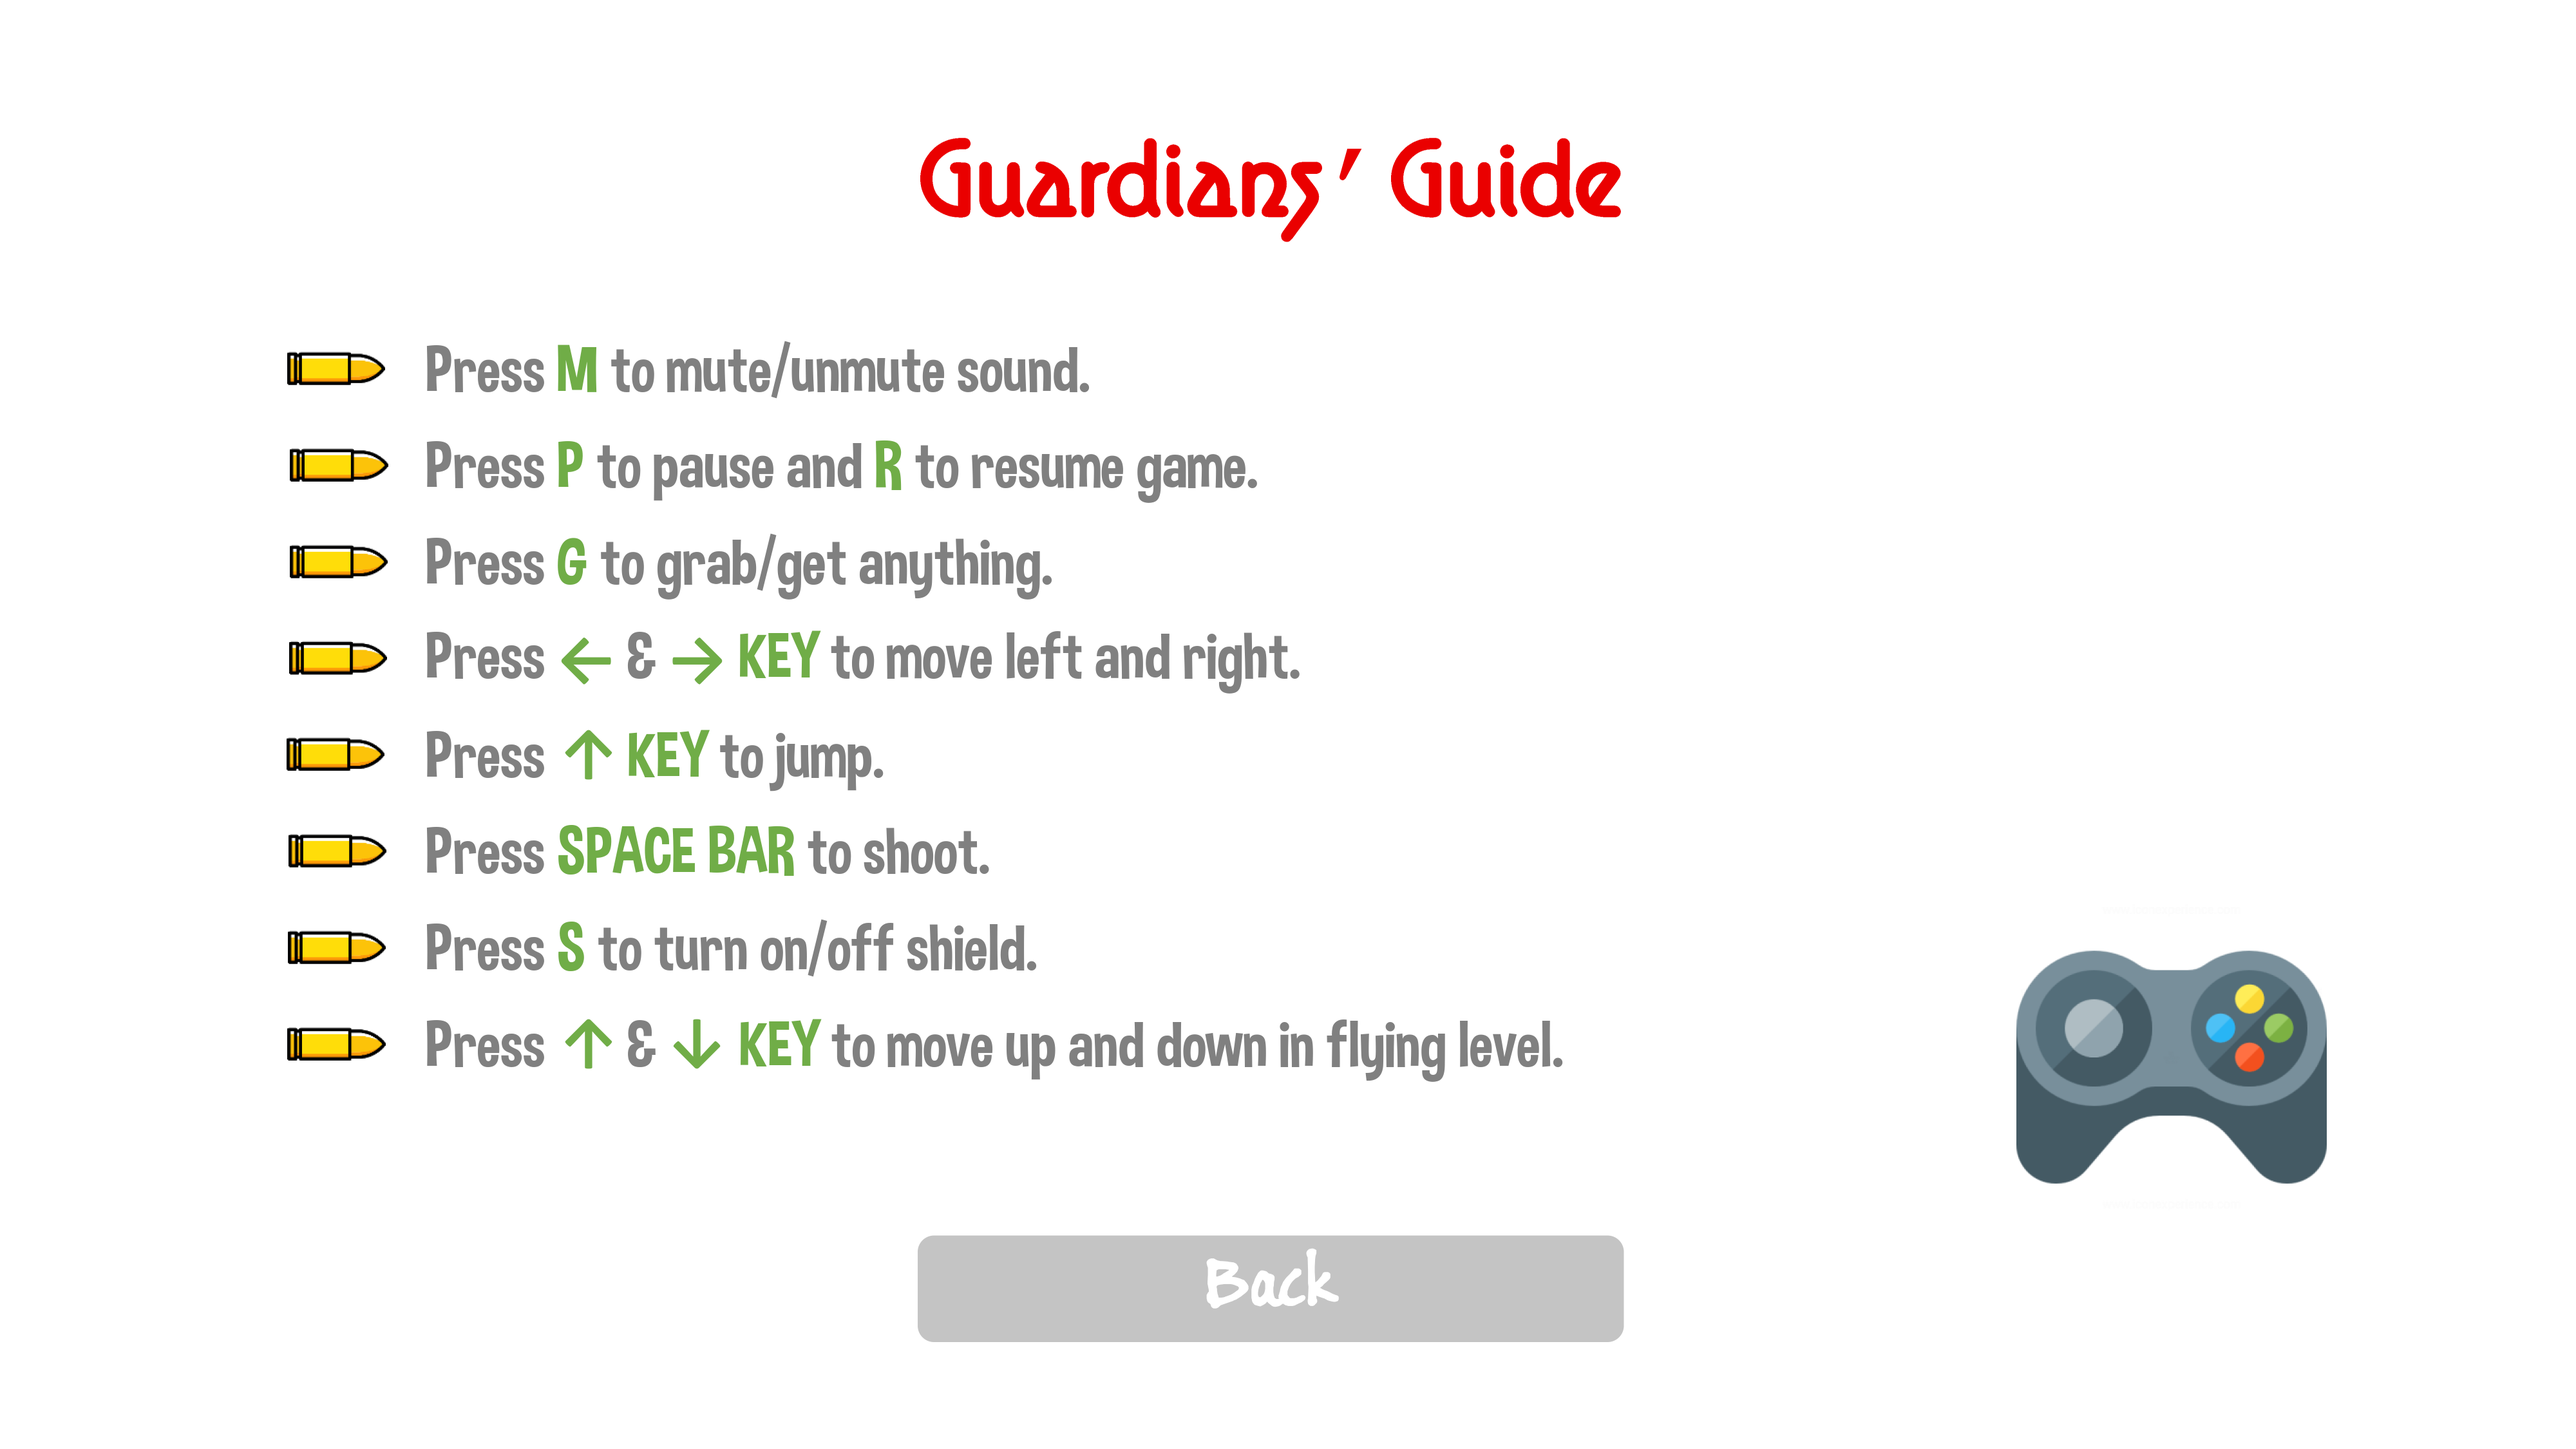
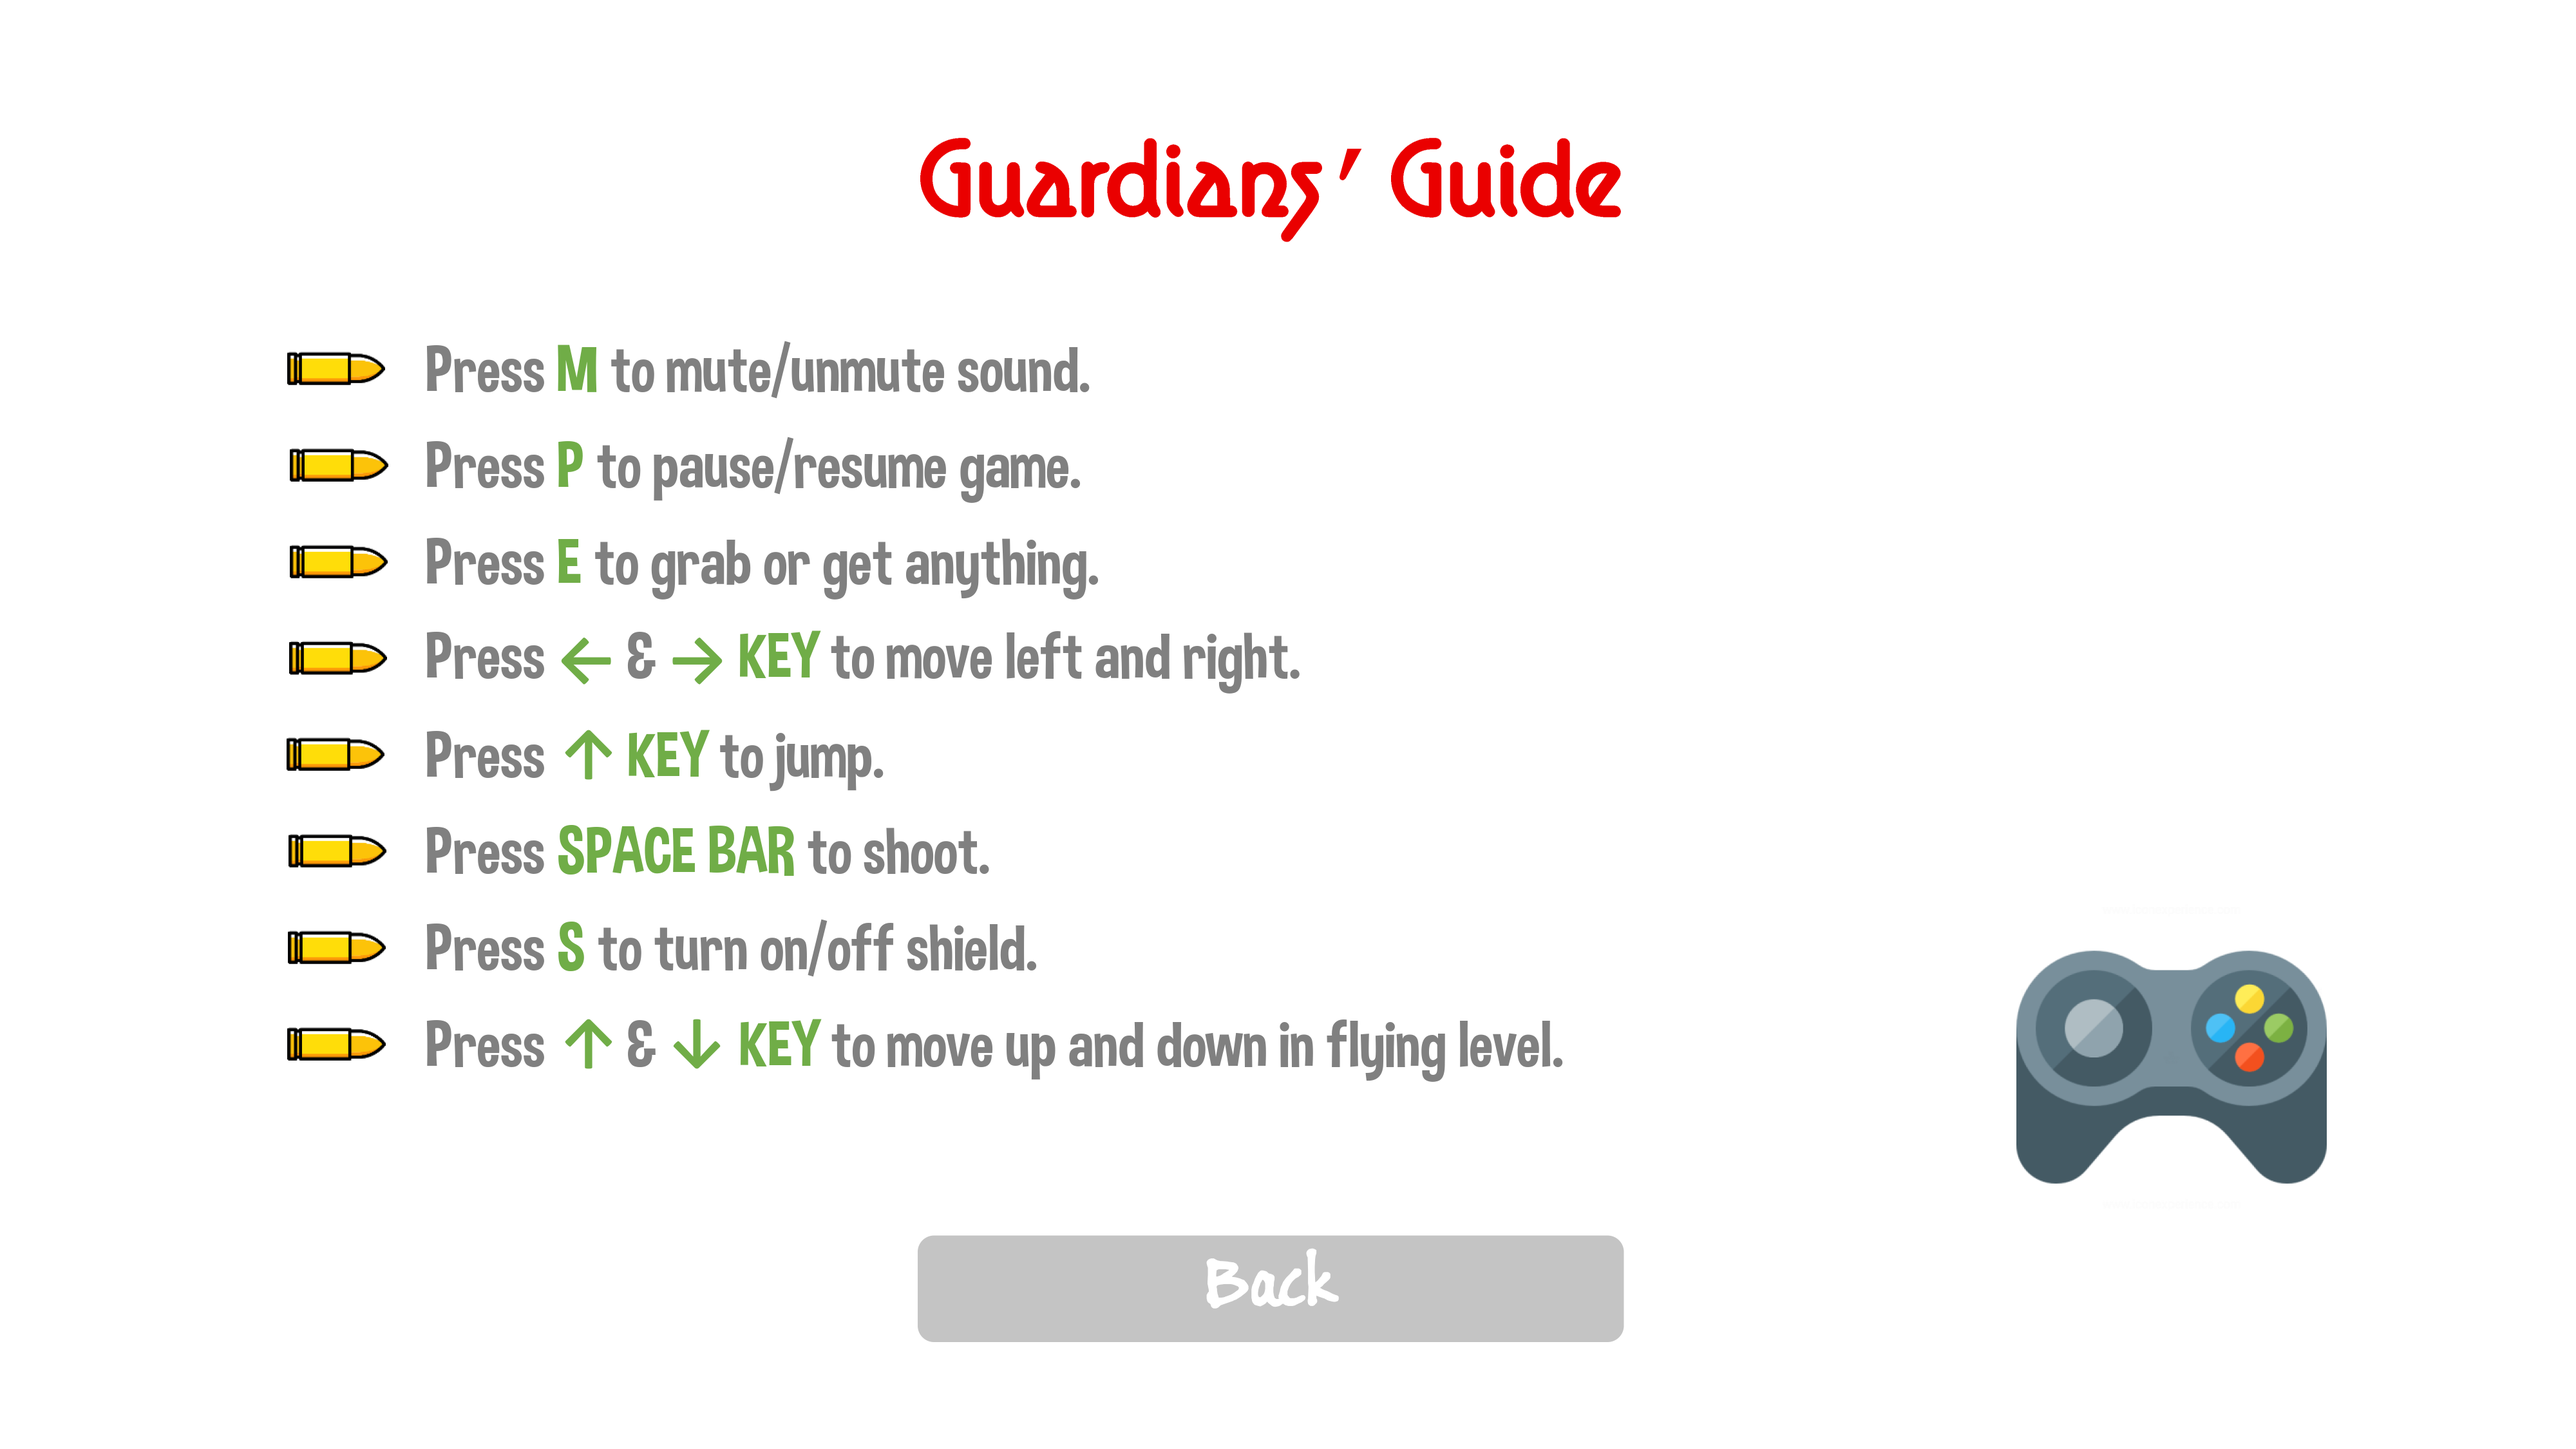
Bug fixes.

Changed region(s): [[0.2812, 0.3111, 0.5, 0.3422], [0.2188, 0.3733, 0.4375, 0.4044]]

diff --git a/TreasureGuardian/TreasureGuardian.cpp b/TreasureGuardian/TreasureGuardian.cpp
@@ -194,6 +194,35 @@ void iMouse(int button, int state, int mx, int my)
 		{
 			activateTextBox(mx, my); //This will activate the text box to enter high scorer's name.
 		}
+
+		if (game_over_index == 0 || game_over_index == 1 || game_over_index == 2) //If high score is achieved.
+		{
+			if (mx >= 547 && mx <= 968 && my >= 60 && my <= 116)
+			{
+				menu_option = 0; //To go to home.
+				level = 0;
+				intro_level = 0;
+				show_map = 0;
+				show_gift = 0;
+
+				ground_player.score = 0;
+				ground_player.health = 100;
+				player_distance = 0;
+
+				intro_player.x = 160;
+				intro_player.y = 30;
+
+				ground_player.x = 160;
+
+				flying_player.x = 160;
+				flying_player.y = 520;
+
+				game_over = false;
+				player_rank = 0;
+				game_over_index = 0;
+				memset(high_score.name, NULL, sizeof(high_score.name)); //Clearing the name.
+			}
+		}
 	}
 
 	if (button == GLUT_RIGHT_BUTTON && state == GLUT_DOWN)
@@ -231,7 +260,7 @@ void iKeyboard(unsigned char key)
 		fire = true;
 	}
 
-	if (key == 'g' || key == 'G')
+	if (key == 'e' || key == 'E')
 	{
 		if (intro_level == 1)
 		{
@@ -344,6 +373,32 @@ void iKeyboard(unsigned char key)
 
 		flying_player.x = 160;
 		flying_player.y = 520;
+	}
+
+	if (key == 'p' || key == 'P')
+	{
+		if (!pause)
+		{
+			pause = true;
+
+			iPauseTimer(timer_ten_mili);
+			iPauseTimer(timer_twenty_mili);
+			iPauseTimer(timer_forty_mili);
+			iPauseTimer(timer_hundred_mili);
+			iPauseTimer(timer_one_sec);
+			iPauseTimer(timer_four_sec);
+		}
+		else
+		{
+			pause = false;
+
+			iResumeTimer(timer_ten_mili);
+			iResumeTimer(timer_twenty_mili);
+			iResumeTimer(timer_forty_mili);
+			iResumeTimer(timer_hundred_mili);
+			iResumeTimer(timer_one_sec);
+			iResumeTimer(timer_four_sec);
+		}
 	}
 }
 
@@ -527,22 +582,23 @@ void iSpecialKeyboard(unsigned char key)
 		intro_level = 0;
 		show_map = 0;
 		show_gift = 0;
+
 		ground_player.score = 0;
 		ground_player.health = 100;
 		player_distance = 0;
 
 		intro_player.x = 160;
 		intro_player.y = 30;
+
 		ground_player.x = 160;
+
 		flying_player.x = 160;
 		flying_player.y = 520;
 
-		if (game_over) //This block is being used temporarily.
-		{
-			game_over = false;
-			ground_player.health = 100;
-			ground_player.score = 0;
-		}
+		game_over = false;
+		player_rank = 0;
+		game_over_index = 0;
+		memset(high_score.name, NULL, sizeof(high_score.name)); //Clearing the name.
 	}
 
 	if (key == GLUT_KEY_END)

diff --git a/TreasureGuardian/Score.h b/TreasureGuardian/Score.h
@@ -8,7 +8,7 @@ using namespace std;
 
 struct HighScore
 {
-	char name[20];
+	char name[35];
 	int score;
 
 	HighScore()
@@ -46,8 +46,8 @@ void showHighScores()
 			sprintf(score_string, "%d", high_score_temp.score);
 
 			iSetColor(0, 0, 0);
-			iText(200, text_y, high_score_temp.name, GLUT_BITMAP_TIMES_ROMAN_24);
-			iText(1020, text_y, score_string, GLUT_BITMAP_TIMES_ROMAN_24);
+			iText(280, text_y, high_score_temp.name, GLUT_BITMAP_TIMES_ROMAN_24);
+			iText(1060, text_y, score_string, GLUT_BITMAP_TIMES_ROMAN_24);
 		}
 
 		fclose(fp);
@@ -62,7 +62,7 @@ void setPlayerName()
 	if (field_active)
 	{
 		iSetColor(0, 0, 0);
-		iRectangle(525, 290, 470, 58);
+		iRectangle(509, 290, 470, 74);
 		iText(600, 310, high_score.name, GLUT_BITMAP_TIMES_ROMAN_24); //Gets the value from void inputName() function.
 		//cout << "Taking input." << endl;
 	}
@@ -81,7 +81,7 @@ void activateTextBox(int mx, int my)
 {
 	if (game_over && player_rank >= 1 && player_rank <= 5)
 	{
-		if (mx >= 525 && mx <= 995 && my >= 290 && my <= 348)
+		if (mx >= 509 && mx <= 995 && my >= 290 && my <= 348)
 		{
 			field_active = true;
 			//cout << "Text box activated." << endl;
@@ -97,7 +97,7 @@ void inputName(unsigned char key)
 	if (game_over && player_rank >= 1 && player_rank <= 5)
 	{
 		//cout << "Entering text at index: " << name_index << endl;
-		if (field_active && name_index < 18)
+		if (field_active && name_index < 32)
 		{
 			if (key == '\b')
 			{

diff --git a/TreasureGuardian/Variables.h b/TreasureGuardian/Variables.h
@@ -6,6 +6,10 @@
 #define SCREEN_WIDTH 1520
 #define SCREEN_HIGHT 792
 
+/*___________________________________________________________Timer index.______________________________________________________________*/
+
+int timer_ten_mili, timer_twenty_mili, timer_forty_mili, timer_hundred_mili, timer_one_sec, timer_four_sec;
+
 /*_______________________________________________________________Menu__________________________________________________________________*/
 
 int level = 0;
@@ -279,5 +283,10 @@ int name_index = 0;
 /*Firing*/
 
 int bullet_y;
+
+/*Game pause and resume.*/
+
+bool pause = false;
+int pause_screen;
 
 #endif // !VARIABLES_H_INCLUDED

diff --git a/TreasureGuardian/LoadImage.h b/TreasureGuardian/LoadImage.h
@@ -194,6 +194,10 @@ void loadImage()
 	game_over_image[0] = iLoadImage("game_over\\game_over0.png");
 	game_over_image[1] = iLoadImage("game_over\\game_over1.png");
 	game_over_image[2] = iLoadImage("game_over\\game_over2.png");
+
+	/*Game pause and resume.*/
+
+	pause_screen = iLoadImage("others\\screens\\pause.png");
 }
 
 #endif // !LOADIMAGE_H_INCLUDED
